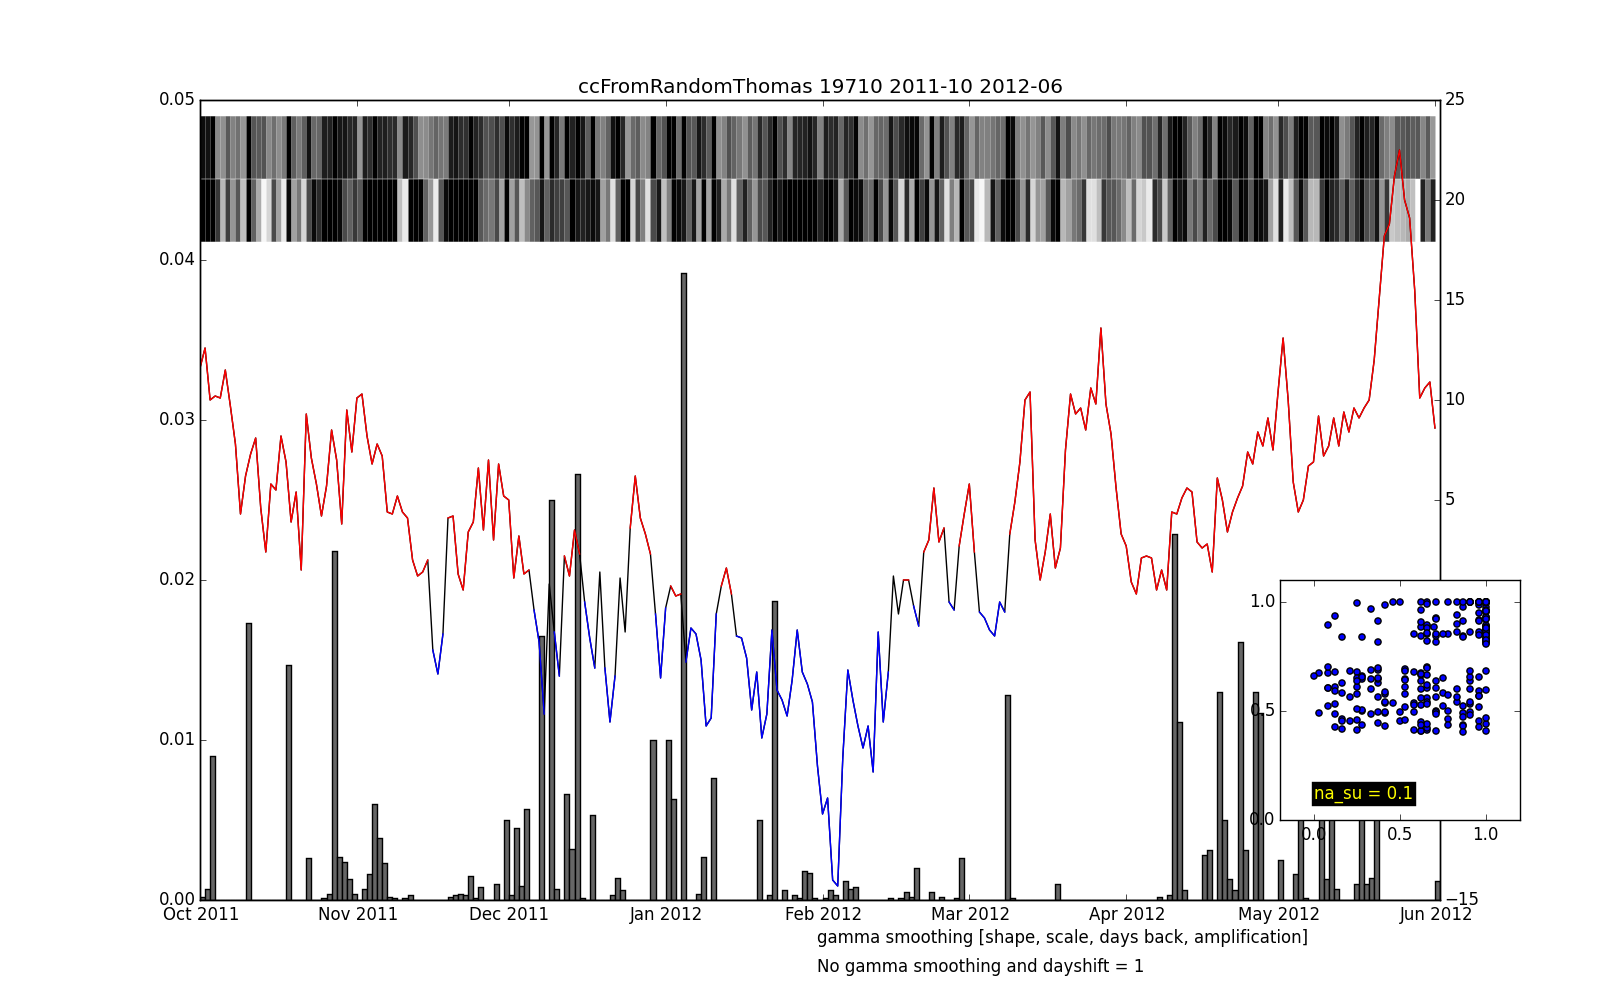
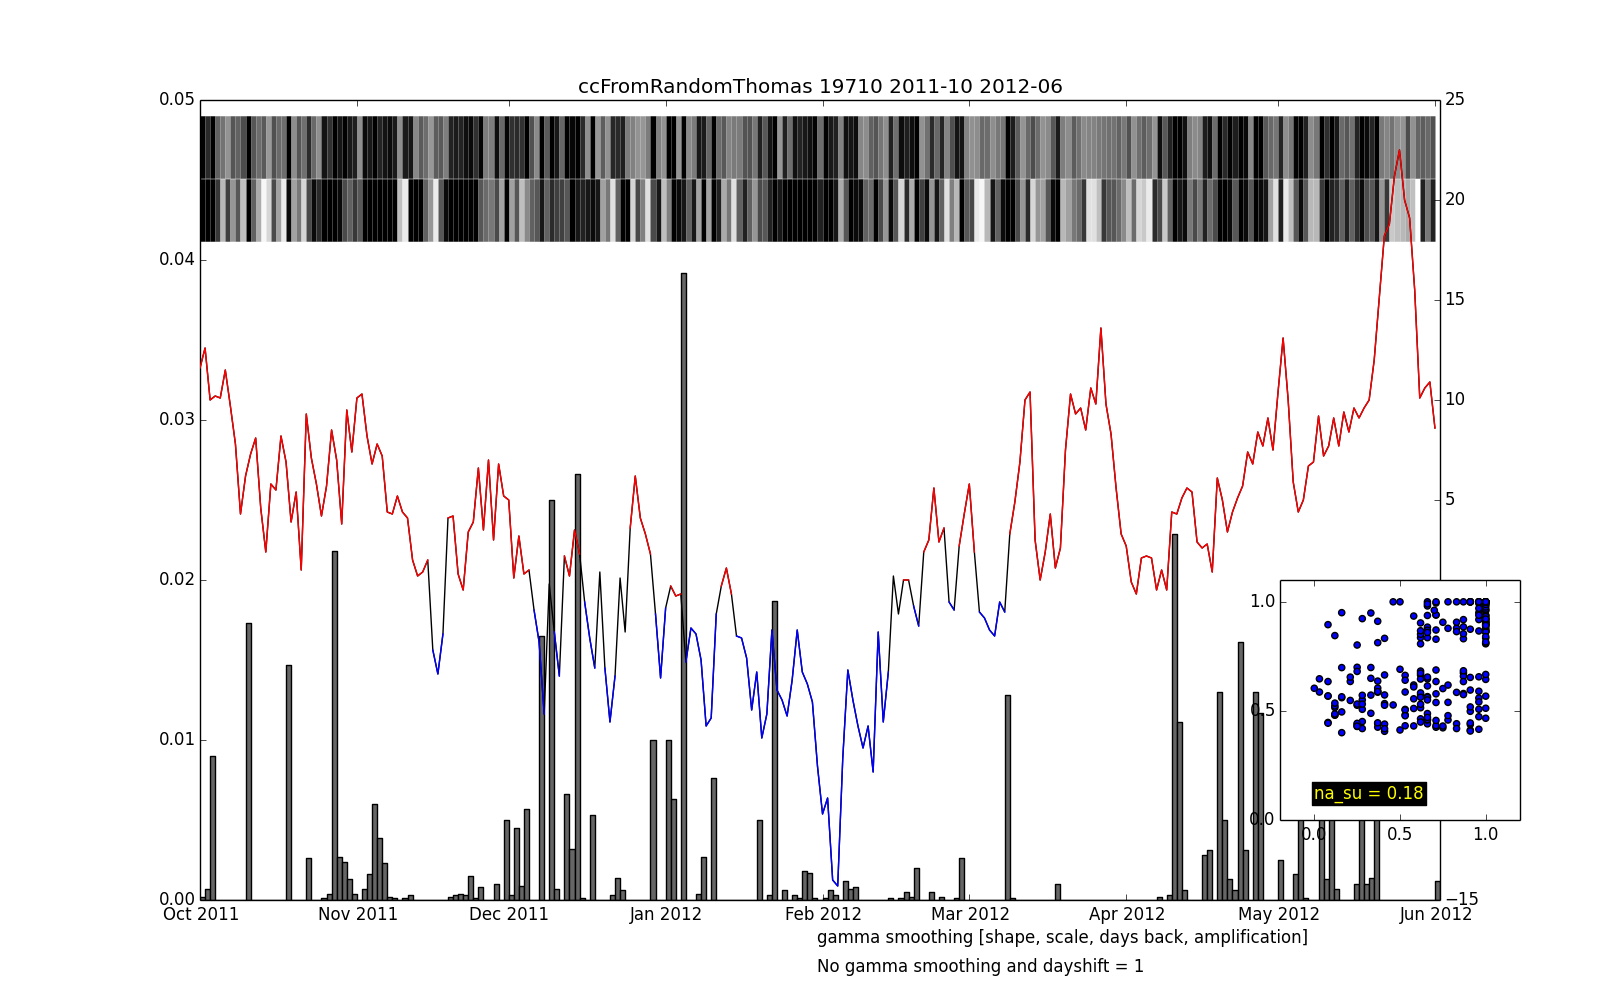
looking into longwave parametrinzation and testing

diff --git a/Ice-modelling/doparameterization.py b/Ice-modelling/doparameterization.py
@@ -5,7 +5,7 @@ import datetime as dt
 import types
 import math
 import constants as const
-from doconversions import *
+import doconversions as dc
 import random as random
 
 
@@ -183,11 +183,136 @@ def k_snow_from_rho_snow(rho_snow):
 
     return k_snow
 
+# untested
+def irradiance_clear_sky(utm33_x, utm33_y, date_inn, time_span_in_sec=24*60*60):
+    '''Clear sky irradiance in J/m2/s * time_span_in_sec.
+
+    :param utm33_x, utm33_y:    koordinat i UTM 33
+    :param date_inn:            [datetime]
+    :param time_span_in_sec:    [sec] Time resolution in sec
+
+    :return I_clear_sky:        [J/m2] Energy over the time span we are looking at.
+    '''
+
+    day_no = date_inn.timetuple().tm_yday
+    # time given as the end of the time span
+    time_hour = (date_inn + dt.timedelta(seconds=time_span_in_sec)).hour
+
+    if time_hour == 0:
+        time_hour = 24
+
+    phi, thi, ddphi, ddthi = dc.lat_long_from_utm33(utm33_x,utm33_y, output= "both")
+
+    theta = 0.4092*math.cos((2*math.pi/365.25)*(day_no-173))  # solar declination angleday angle, Liston 1995
+    theta2 = 2*math.pi/365.25*(day_no-80)
+
+    r = 149598000   # distance from the sun
+    R = 6378        # Radius of earth
+
+    timezone = -4 * (math.fabs(thi) % 15) * thi/math.fabs(thi)      # ang lengdegrad ikke
+    epsilon = 0.4092    # rad(23.45)
+
+    z_s = r*math.sin(theta2)*math.sin(epsilon)
+    r_p = math.sqrt(r**2-z_s**2)
+    nevner = (R-z_s*math.sin(phi))/(r_p*math.cos(phi))
+
+    if(nevner > -1) and (nevner < 1):
+        # acos(mÂ ha inn verdier ,(mellom-1,1) hvis <-1 sÂ er det midnattsol > 1 er det m¯rketid.
+        t0 = 1440/(2*math.pi)*math.acos((R-z_s*math.sin(phi))/(r_p*math.cos(phi)))
+        that = t0+5
+        n = 720-10*math.sin(4*math.pi*(day_no-80)/365.25)+8*math.sin(2*math.pi*day_no/365.25)
+        sr = (n-that+timezone)/60 #soloppgang
+        ss = (n+that+timezone)/60 #solnedgang
+
+    if nevner <= -1:    # Midnattsol
+        sr = 0.
+        ss = 24.
+
+    if nevner >= 1:     # Mørketid
+        sr = 12.
+        ss = 12.
+
+    dingom = {}         # Values for zenith angle (0 straight up)
+
+    for tid in range(1, 24, 1):
+        if (tid > sr) and (tid < ss):
+            tom = tid-12    # Number of hours from solar noon. Solar noon is tom=0
+            cosarg = 0.2618 * tom   # Radians pr hour
+            dingom[tid] = math.acos(math.sin(phi)*math.sin(theta)+math.cos(phi)*math.cos(theta)*math.cos(cosarg))  # Dingmans zenith angle
+
+        if (tid < sr) or (tid > ss):  # If time is outside sunrise-sunset
+            dingom[tid] = math.pi/2     # Angle below horizin is set to be on the horizon.
+
+    if time_span_in_sec == 86400:
+        zenith_angle = dingom.values()          # list
+    elif time_span_in_sec < 86400:              # Midler transmissvitet og solvinkel For finere tidssoppløsning
+        interv = list(range(time_hour-int(time_span_in_sec/3600)+1, time_hour, 1))     # aktuelle timer
+        zenith_angle = [dingom[i] for i in interv]
+    else:
+        print("Method doesnt work on time intervals greater than 24hrs")
+        zenith_angle = None
+
+    # Mean values
+    zenith_angle = float( sum(zenith_angle) / len(zenith_angle) )
+
+    #Solar radiation
+    S0 = const.solar_constant   #[J/m2/s] Solar constant pr sec
+    S0 *= time_span_in_sec      # solar constant pr time step
+    S0 /=1000                   # J to kJ
+
+    I_clear_sky = math.sin((math.pi/2)-zenith_angle) * S0
+
+    return I_clear_sky
+
 
 ####### Works on both
 
+# untested
+def clouds_from_short_wave(utm33_x, utm33_y, short_wave_inn, date_inn, time_span_in_sec=24*60*60):
+    """Clouds defined by: clouds = 1 - measured solar irradiance / clear-sky irradiance
 
-def atmospheric_emissivity(temp_atm, cloud_cover, method="2005 WALTER"):
+    :param utm33_x:             []
+    :param utm33_y:
+    :param short_wave_inn:      [float] in J/m2/time_step
+    :param date_inn:
+    :param time_span_in_sec:    [int] Is necessary if used on non-list calculations and not on daily values.
+    :return cloud_cover_out:
+    """
+
+    # If input isn't list, make it so
+    input_is_list = False
+    if isinstance(short_wave_inn, types.ListType):
+        input_is_list = True
+
+    if input_is_list:
+        short_wave_list = short_wave_inn
+        date_list = date_inn
+        time_span_in_sec = (date_list[1] - date_list[0]).total_seconds()
+    else:
+        short_wave_list = [short_wave_inn]
+        date_list = [date_inn]
+
+
+    cloud_cover_list = []
+    for i in range(0, len(short_wave_list), 1):
+
+        I_clear_sky = irradiance_clear_sky(utm33_x, utm33_y, date_list[i], time_span_in_sec)
+        I_measured = short_wave_list[i]
+
+        cloud_cover = 1 - I_measured/I_clear_sky
+        cloud_cover_list.append(cloud_cover)
+
+
+    # If input aren't lists, return only float.
+    if input_is_list:
+        cloud_cover_out = cloud_cover_list
+    else:
+        cloud_cover_out = cloud_cover_list[0]
+
+    return cloud_cover_out
+
+# untested
+def atmospheric_emissivity(temp_atm_inn, cloud_cover_inn, method="2005 WALTER"):
     """Its a start.. Incomplete
 
     :param temp_atm:
@@ -195,15 +320,45 @@ def atmospheric_emissivity(temp_atm, cloud_cover, method="2005 WALTER"):
     :return:
     """
 
+    # If input aren't lists, make them so
+    if not isinstance(temp_atm_inn, types.ListType):
+        temp_atm_list = [temp_atm_inn]
+        cloud_cover_list = [cloud_cover_inn]
+    else:
+        temp_atm_list = temp_atm_inn
+        cloud_cover_list = cloud_cover_inn
+
     eps_atm_list = []
 
-    if method=="1998 CAMPBELL":
-        # Atmospheric emissivity from Campbell and Norman, 1998. Emissivity er dimasnjonsløs
-        eps_atm = (0.72+0.005*temp_atm)*(1-0.84*cloud_cover)+0.84*cloud_cover
+    for i in range(0, len(temp_atm_list), 1):
+        temp_atm = temp_atm_list[i]
+        cloud_cover = cloud_cover_list[i]
 
-    if method=="2005 WALTER":
-        # From THS og 2005 WALTER
-        eps_atm = (1.0+0.0025*temp_atm)-(1-cloud_cover)*(0.25*(1.0+0.0025*temp_atm))
+        if method=="1998 CAMPBELL":
+            # Atmospheric emissivity from Campbell and Norman, 1998. Emissivity er dimasnjonsløs
+            eps_atm = (0.72+0.005*temp_atm)*(1-0.84*cloud_cover)+0.84*cloud_cover
+        elif method=="2005 WALTER":
+            # From THS og 2005 WALTER
+            eps_atm = (1.0+0.0025*temp_atm)-(1-cloud_cover)*(0.25*(1.0+0.0025*temp_atm))
+        elif method=="1963 SWINBANK":
+            # From 1998 TODD eq 13
+            eps_atm = cloud_cover + (1-cloud_cover) * (9.36 * 10**-6 * temp_atm**2)
+        elif method=="1969 Idso and Jackson":
+            # From 1998 TODD eq 14
+            eps_atm = (cloud_cover + (1-cloud_cover) * (1 - (0.261 * math.exp(-7.77 * 10**-4) * (273.15 - temp_atm)**2 )))
+        else:
+            eps_atm = None
+            print 'doparameterization.py --> atmospheric_emissivity: Unknown method.'
+
+        eps_atm_list.append(eps_atm)
+
+    # Again, if input aren't lists, return only float.
+    if not isinstance(temp_atm_inn, types.ListType):
+        eps_atm_out = eps_atm_list[0]
+    else:
+        eps_atm_out = eps_atm_list
+
+    return eps_atm_out
 
 
 def clouds_from_precipitation(prec_inn, method='Binary'):
@@ -219,8 +374,8 @@ def clouds_from_precipitation(prec_inn, method='Binary'):
                         in the period is used and if there is precipitation 100% cloud cover is used.
 
     Method = Random Thomas: Thomas Skaugen suggests to choose random numbers in a interval based on
-                        precipitation amount to estimate clouds. Method returns different nash sutcliffie every
-                        run but the seem to sircle around the results from "Binary and avarage" method.
+                        precipitation amount to estimate clouds. Method returns different Nash-Sutcliffe every
+                        run but the seem to circle around the results from "Binary and average" method.
 
 
     :param prec_inn:        [list or single value]     Precipitation
@@ -279,20 +434,54 @@ def clouds_from_precipitation(prec_inn, method='Binary'):
     return clouds_out
 
 
+def __test_clouds_from_short_wave():
+
+    import getWSklima as gws
+    import weather as we
+
+    date_list = [dt.date.today() - dt.timedelta(days=x) for x in range(0, 365)]
+    date_list = [dt.datetime.combine(d, dt.datetime.min.time()) for d in date_list]
+    date_list.reverse()
+
+    # test Nordnesfjellet i Troms
+    station_id = 91500
+    short_wave_id = 'QSI'
+    long_wave_id = 'QLI'
+    temperature_id = 'TA'
+    timeseries_type = 2
+    utm_e = 711075
+    utm_n = 7727719
+
+    short_wave = gws.getMetData(station_id, short_wave_id, date_list[0], date_list[-1], timeseries_type)
+    long_wave = gws.getMetData(station_id, long_wave_id, date_list[0], date_list[-1], timeseries_type)
+    temperature = gws.getMetData(station_id, temperature_id, date_list[0], date_list[-1], timeseries_type)
+
+    short_wave = we.fix_data_quick(short_wave)
+    long_wave = we.fix_data_quick(long_wave)
+    temperature_daily = we.fix_data_quick(temperature)
+
+    short_wave_daily = we.make_daily_average(short_wave)
+    short_wave_daily = we.multiply_constant(short_wave_daily, 24 * 3600 / 1000)  # Wh/m2 * 3600 s/h * kJ/1000J (energy) over 24hrs
+    long_wave_daily = we.make_daily_average(long_wave)
+    long_wave_daily = we.multiply_constant(long_wave_daily, 24 * 3600 / 1000)
+    temperature_daily = we.make_daily_average(temperature)
+
+    Short_wave_list = we.strip_metadata(short_wave_daily)
+    I_clear_sky_list = [irradiance_clear_sky(utm_e, utm_n, d) for d in date_list]
+    Cloud_cover = clouds_from_short_wave(utm_e, utm_n, Short_wave_list, date_list)
+
+    import matplotlib.pyplot as plt
+
+    plt.plot(date_list, Short_wave_list)
+    plt.plot(date_list, I_clear_sky_list)
+    plt.plot(date_list, Cloud_cover)
+    plt.ylim(0, 50000)
+    plt.show()
+
+
 if __name__ == "__main__":
 
-    # Test koordinater i tana
-    x_tana = 988130
-    y_tana = 7844353
-    lat_tana, long_tana = lat_long_from_utm33(x_tana, y_tana)
-
-
-    # Test Filefjell
-    y_file = 6802070
-    x_file = 130513
-    lat_file, long_file = lat_long_from_utm33(x_file, y_file)
-
-
+    __test_clouds_from_short_wave()
 
     a = 1
 

diff --git a/Ice-modelling/getWSklima.py b/Ice-modelling/getWSklima.py
@@ -77,7 +77,7 @@ def getStationsFromTimeserieTypeElemCodes(timeserietypeID, elem_codes, output='l
         'xml':          returns NULL but saves a .xml file to the working folder.
         'txt':          returns NULL but saves a .txt file to the working folder.
 
-    timeseriesType options:
+    timeseries_type options:
         0   dayly averages
         1   monthly averages
         2   hour average
@@ -285,7 +285,7 @@ def getMetData(stationID, elementID, fromDate, toDate, timeseriesType, output='l
         'xml':          returns NULL but saves a .xml file to the working folder.
         'csv':          returns NULL but saves a .csv file to the working folder. The separation value are tab
 
-    timeseriesType options:
+    timeseries_type options:
         0   dayly averages
         1   monthly averages
         2   hour average
@@ -392,12 +392,12 @@ if __name__ == "__main__":
     # elementsOn19710 = getElementsFromTimeserieTypeStation(19710, 0, 'list')
     # elementsOn18700 = getElementsFromTimeserieTypeStation(18700, 0, 'list')
     #elementsOnEvenes = getElementsFromTimeserieTypeStation(84970, 0, 'list')
-    getElementsFromTimeserieTypeStation(84970, 0, 'xml')
-    getElementsFromTimeserieTypeStation(19710, 2, 'txt')
+    #getElementsFromTimeserieTypeStation(84970, 0, 'xml')
+    #getElementsFromTimeserieTypeStation(19710, 2, 'txt')
 
     #getStationsFromTimeserieTypeElemCodes(2, ['QLI'], output='xml')
     #getStationsFromTimeserieTypeElemCodes(2, ['QLI'], output='txt')
-    #getStationsFromTimeserieTypeElemCodes(2, ['QLI', 'RR_1', 'TA'], output='txt')
+    getStationsFromTimeserieTypeElemCodes(2, ['QLI', 'QSI', 'TA'], output='txt')
 
 
 

diff --git a/Ice-modelling/weather.py b/Ice-modelling/weather.py
@@ -162,6 +162,23 @@ def make_daily_average(weather_element_list):
     return newWeatherElementList
 
 
+def fix_data_quick(weather_element_list):
+
+    for we in weather_element_list:
+        we.fix_data_quick()
+
+    return weather_element_list
+
+
+def multiply_constant(weather_element_list, constant):
+
+    for we in weather_element_list:
+        we.Value = we.Value * constant
+        we.Metadata.append({'Multiplied by {0}.'.format(constant)})
+
+    return weather_element_list
+
+
 def average_value(weather_element_list, lower_index, upper_index):
     """
     The method will return the avarage value of a list or part of a list with weatherElements
@@ -318,7 +335,7 @@ class WeatherElement():
 
         # These values should always be positive. -99999 is often used as unknown number in eklima.
         # RR = 0 or negligible precipitation. RR = -1 is noe precipitation observed.
-        if self.ElementID in ['SA', 'RR','RR_1', 'QLI']:
+        if self.ElementID in ['SA', 'RR','RR_1', 'QLI', 'QSI']:
             if self.Value < 0.:
                 self.Value = 0.
                 self.Metadata.append({'Value manipulation': 'removed negative value'})
@@ -341,7 +358,6 @@ class WeatherElement():
         if (self.Date).date() == dt.date(2012, 12, 31) and self.ElementID == 'SA' and self.LocationID == 54710 and self.Value == 0.:
             self.Value = 0.36
             self.Metadata.append({"ManualValue": self.Value})
-
 
 
 class EnergyBalanceElement():

diff --git a/Ice-modelling/runCloudMaker.py b/Ice-modelling/runCloudMaker.py
@@ -526,7 +526,7 @@ def testCloudMaker(stnr, startDate, endDate, method):
     plt.text(date[len(date)/2], min(temp)*1.2, 'gamma smoothing [shape, scale, days back, amplification]')
     plt.text(date[len(date)/2], min(temp)*1.3, gammaFigtext)
 
-    # this is a scatterplot of modelled and estimated cloud cover
+    # this is a scatter plot of modelled and estimated cloud cover
     xfrac = 0.15
     yfrac = (float(fsize[0])/float(fsize[1])) * xfrac
     xpos = 0.95-xfrac
@@ -539,10 +539,19 @@ def testCloudMaker(stnr, startDate, endDate, method):
 
     plt.savefig("{0}{1}".format(plot_folder, fileName))
 
-    return
+    return nash_sutcliffe
 
 
 if __name__ == "__main__":
+
+    i = 0
+    na_sus = []
+    while i < 50:
+        print '{0}'.format(i)
+        na_su = testCloudMaker(19710, '2011-10-01', '2012-06-01', method='ccFromRandomThomas')
+        na_sus.append(na_su)
+        i += 1
+
 
     testCloudMaker(19710, '2011-10-01', '2012-06-01', method='ccFromRandomThomas')
     testCloudMaker(19710, '2011-10-01', '2012-06-01', method='ccFromPrec')

diff --git a/Ice-modelling/doconversions.py b/Ice-modelling/doconversions.py
@@ -70,8 +70,6 @@ def lat_long_from_utm33(x, y, output="degrees"):
         return phi, thi
 
 
-
-
 if __name__ == "__main__":
 
     # Test koordinater i tana
